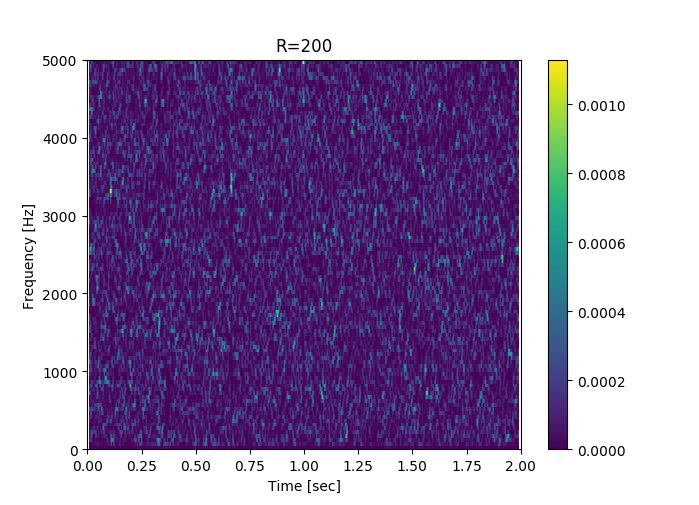
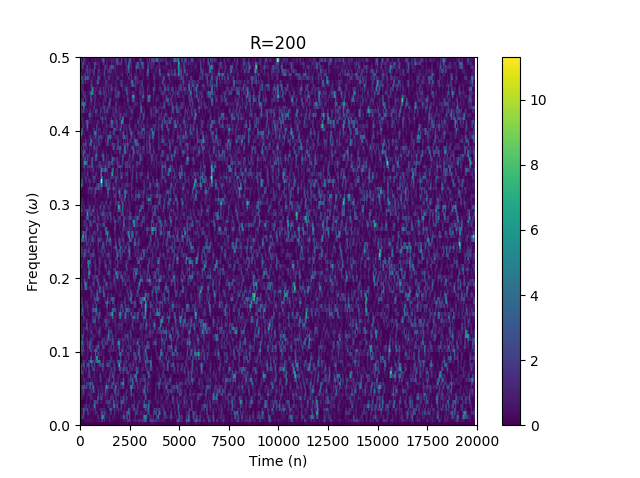
change_plot

diff --git a/hw05/program_6/program_6_2/program_6_2.py b/hw05/program_6/program_6_2/program_6_2.py
@@ -15,11 +15,11 @@ if __name__ == '__main__':
     omega_0 = 10*pi*10**-5
     seq = np.arange(0,20000)    
     x_n = np.cos(omega_0 *(seq*seq))
-    f, t, Sxx = signal.spectrogram(x_n,fs=10000,window='hamming',nperseg=50,noverlap=49,nfft=50)
-    plt.title('R = 50')
+    f, t, Sxx = signal.spectrogram(x_n,window='hamming',nperseg=50,noverlap=49,nfft=500)
+    plt.title('R = 500')
     plt.pcolormesh(t, f, Sxx)   
     plt.colorbar()
-    plt.xlim(0,2)
-    plt.ylabel('Frequency [Hz]')
-    plt.xlabel('Time [sec]')
+    plt.xlim(0,20000)
+    plt.ylabel('Frequency ($\omega$)')
+    plt.xlabel('Time (n)')
     plt.show()

diff --git a/hw05/program_6/program_6_1/program_6_2.py b/hw05/program_6/program_6_1/program_6_2.py
@@ -15,11 +15,11 @@ if __name__ == '__main__':
     omega_0 = 10*pi*10**-5
     seq = np.arange(0,20000)    
     x_n = np.cos(omega_0 *(seq*seq*seq))
-    f, t, Sxx = signal.spectrogram(x_n,fs=10000,window='hamming',nperseg=200,noverlap=199)
+    f, t, Sxx = signal.spectrogram(x_n,window='hamming',nperseg=200,noverlap=199)
     plt.title('R=200')
     plt.pcolormesh(t, f, Sxx)   
     plt.colorbar()
-    plt.xlim(0,2)
-    plt.ylabel('Frequency [Hz]')
-    plt.xlabel('Time [sec]')
+    plt.xlim(0,20000)
+    plt.ylabel('Frequency ($\omega$)')
+    plt.xlabel('Time (n)')
     plt.show()

diff --git a/hw05/program_6/program_6_1/program_6_1.py b/hw05/program_6/program_6_1/program_6_1.py
@@ -15,11 +15,11 @@ if __name__ == '__main__':
     omega_0 = 10*pi*10**-5
     seq = np.arange(0,20000)    
     x_n = np.cos(omega_0 *(seq*seq))
-    f, t, Sxx = signal.spectrogram(x_n,fs=10000,window='hamming',nperseg=200,noverlap=199)
+    f, t, Sxx = signal.spectrogram(x_n,window='hamming',nperseg=200,noverlap=199)
     plt.title('R=200')
     plt.pcolormesh(t, f, Sxx)   
     plt.colorbar()
-    plt.xlim(0,2)
-    plt.ylabel('Frequency [Hz]')
-    plt.xlabel('Time [sec]')
+    plt.xlim(0,20000)
+    plt.ylabel('Frequency ($\omega$)')
+    plt.xlabel('Time (n)')
     plt.show()
